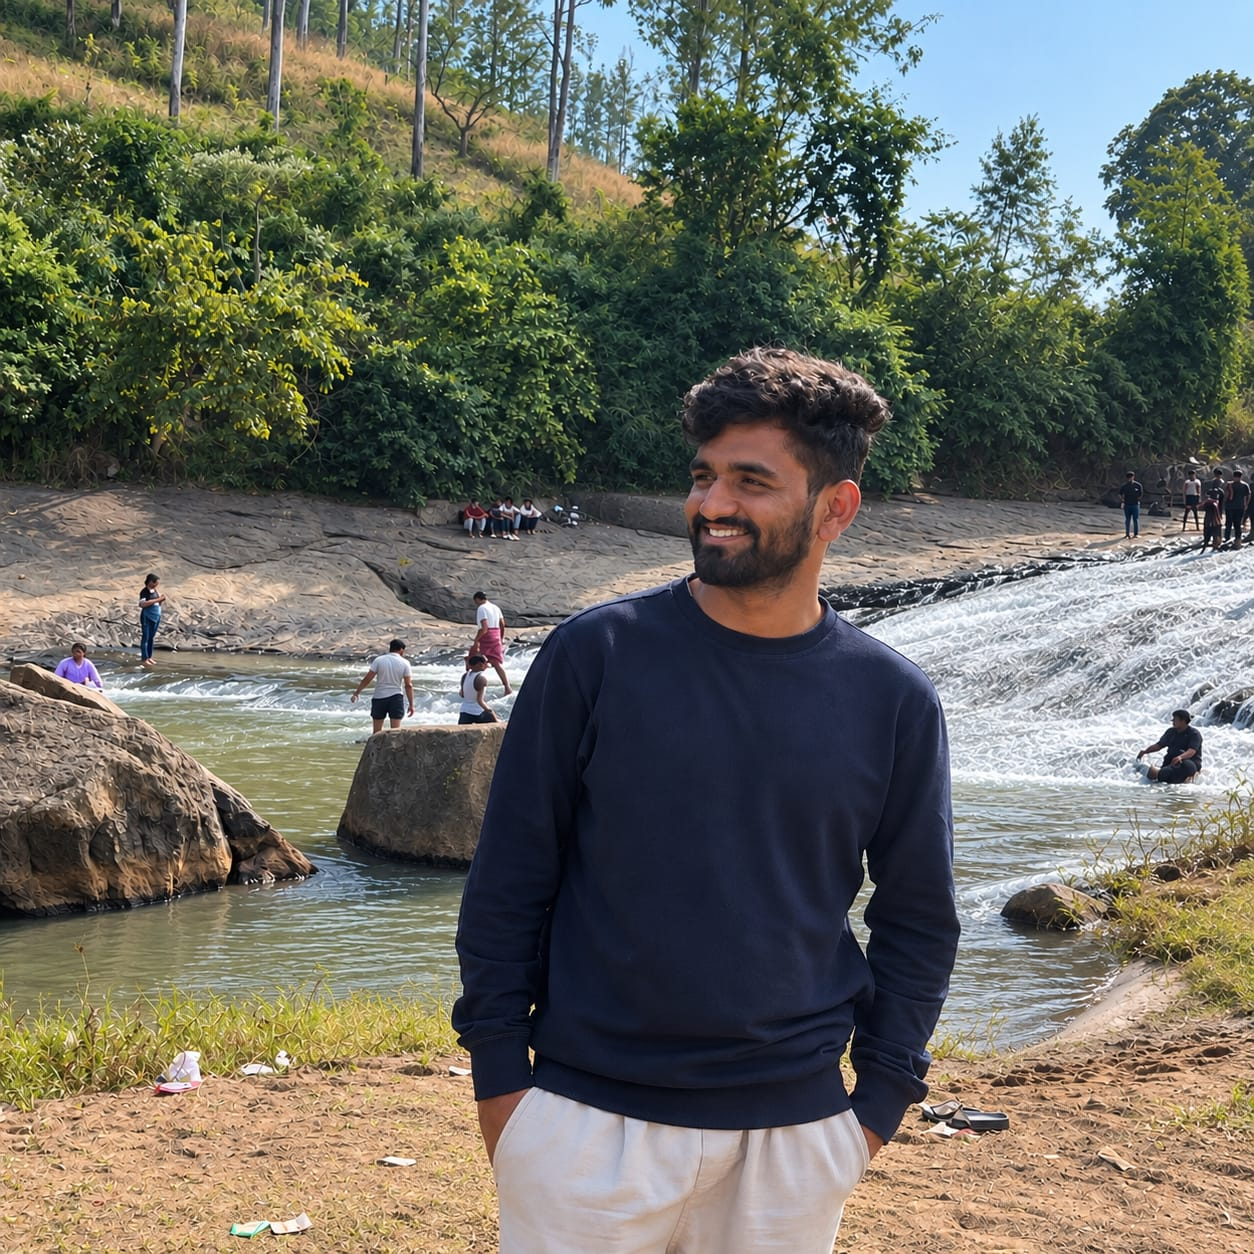
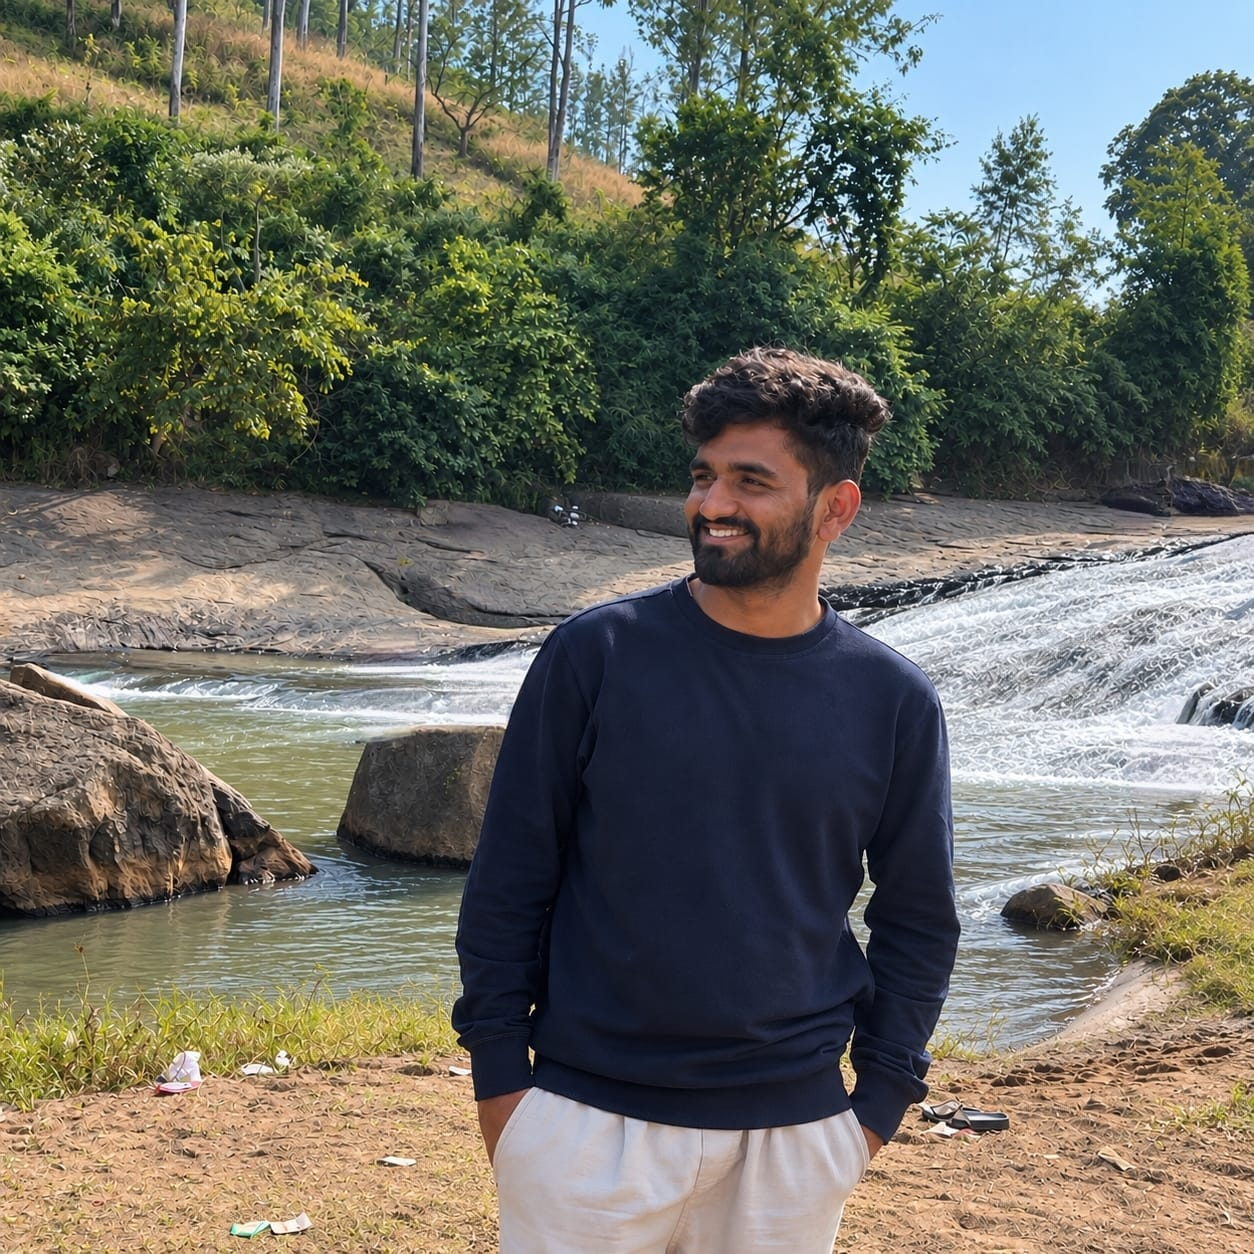
Photo edit2

diff --git a/data/events.js b/data/events.js
@@ -441,15 +441,15 @@ export const events = [
 
   // Fun / Other Events
 
-  {
-    id: 44,
-    title: "Prom Night",
-    category: "fun",
-    description:
-      "A pre-fest social event designed to bring participants together for an evening of celebration and entertainment.",
-    mode: "Offline",
-    href: "#",
-  },
+  // {
+  //   id: 44,
+  //   title: "Prom Night",
+  //   category: "fun",
+  //   description:
+  //     "A pre-fest social event designed to bring participants together for an evening of celebration and entertainment.",
+  //   mode: "Offline",
+  //   href: "#",
+  // },
 
   {
     id: 45,
@@ -511,5 +511,35 @@ export const events = [
     "",
   mode: "Offline",
   href: "https://docs.google.com/forms/d/e/1FAIpQLSfzNuxuCfZGHJPfAnYMjZlNDrrcvgWoYrxn1tslZjdhB7s2TA/viewform",
+  },
+
+  {
+    id: 51,
+    title: "Comedy Night",
+    category: "fun",
+    description:
+      "",
+    mode: "Offline",
+    href: "#",
+  },
+
+  {
+    id: 52,
+    title: "DJ Night",
+    category: "fun",
+    description:
+      "",
+    mode: "Offline",
+    href: "#",
+  },
+
+  {
+    id: 53,
+    title: "Star Night",
+    category: "fun",
+    description:
+      "",
+    mode: "Offline",
+    href: "#",
   },
 ];

diff --git a/data/team.js b/data/team.js
@@ -300,7 +300,7 @@ export const team = [
     team: 'development',
     email: '23je0191@iitism.ac.in',
     phone: '+91-8341260805',
-    // image not access
+    image: '/team/app-as.jpg',
     instagram: 'https://www.instagram.com/shivaniayilamoni_37?stkn=MWt3cWtyemIwMW5lNA==',
     linkedin: 'https://www.linkedin.com/in/shivani-ayilamoni-620478288/'
   },
